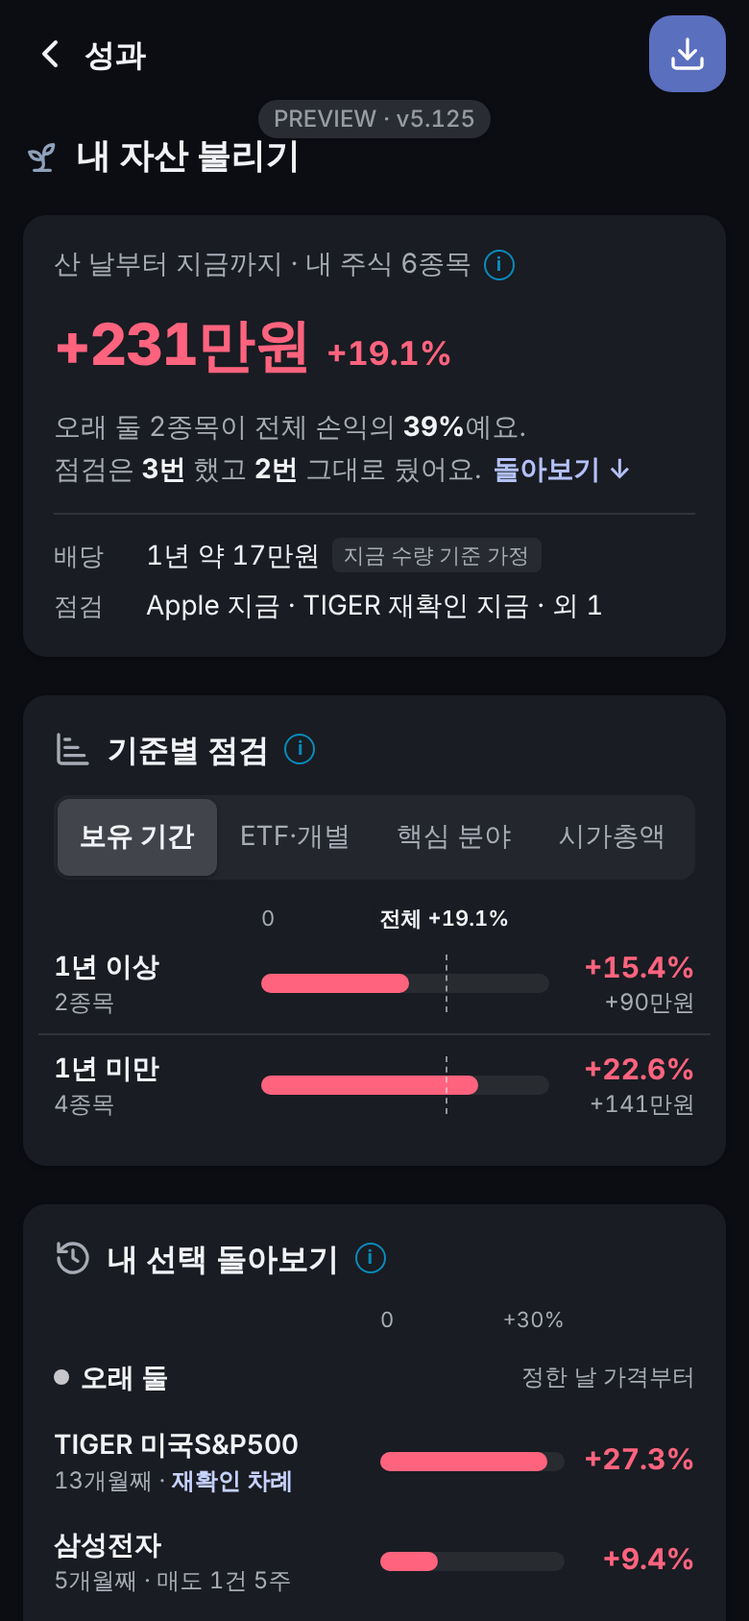
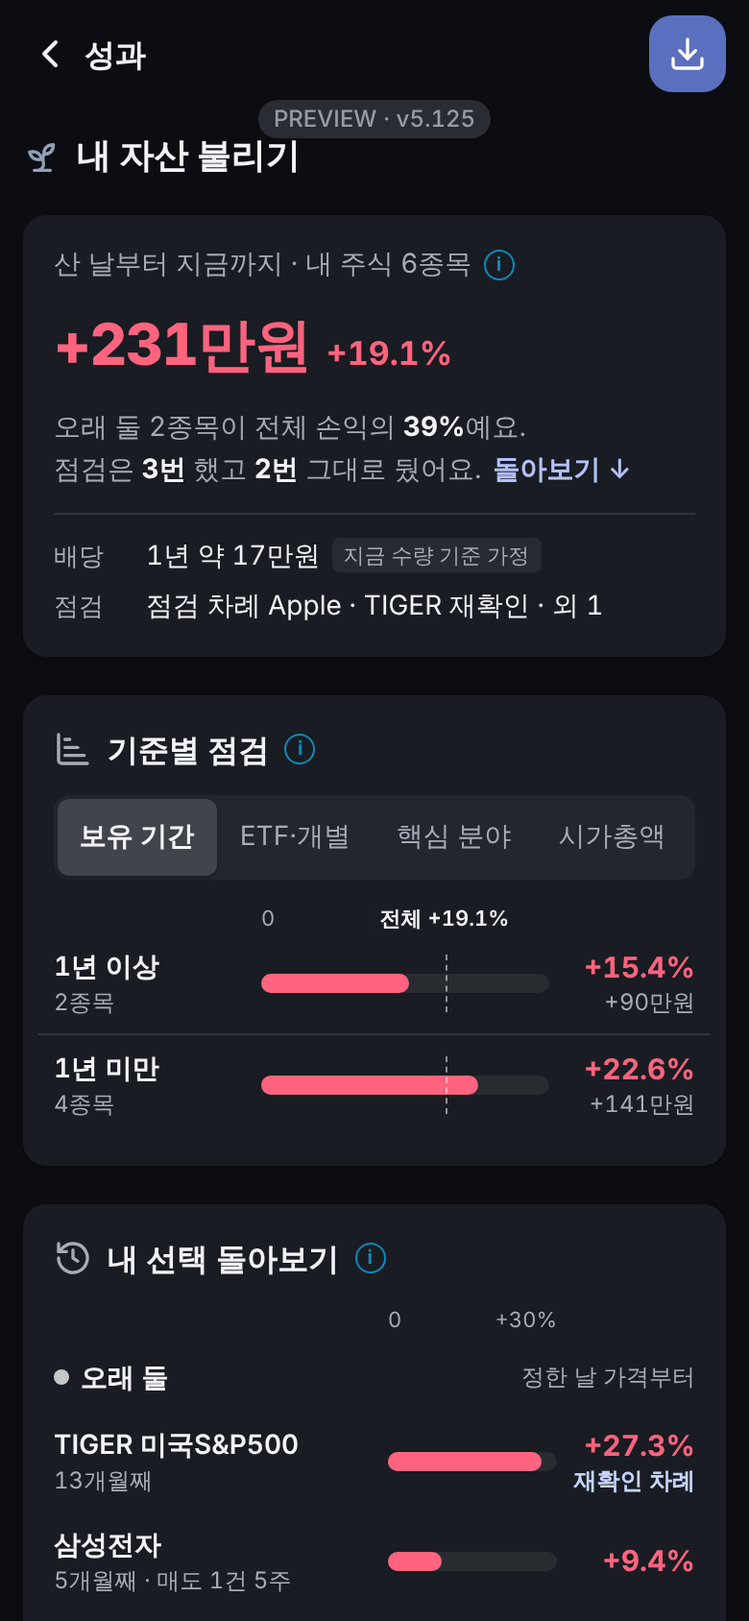
memory: #239 4차 tech-review·정정 수용

diff --git a/issues/5.125-239-grow-my-assets/tools/mock-redesign4.html b/issues/5.125-239-grow-my-assets/tools/mock-redesign4.html
@@ -121,12 +121,15 @@
 .mk-rv-head b { font-size: 14px; font-weight: 700; display: inline-flex; align-items: center; gap: 6px; }
 .mk-rv-head b i { width: 8px; height: 8px; border-radius: 999px; display: inline-block; }
 .mk-rv-head span { font-size: 12px; color: var(--muted-foreground); white-space: nowrap; }
-.mk-rv-row { all: unset; display: grid; grid-template-columns: minmax(0, 1fr) 96px 60px; column-gap: 8px; align-items: center; min-height: 52px; margin: 0 -8px; padding: 0 8px; border-radius: 8px; cursor: pointer; }
+.mk-rv-row { all: unset; display: grid; grid-template-columns: minmax(0, 1fr) 88px 64px; column-gap: 8px; align-items: center; min-height: 52px; margin: 0 -8px; padding: 0 8px; border-radius: 8px; cursor: pointer; }
 .mk-rv-row:hover { background: color-mix(in oklab, var(--foreground) 5%, transparent); }
 .mk-rv-name { display: block; font-size: 14px; font-weight: 600; line-height: 20px; word-break: keep-all; }
 .mk-sub { display: block; font-size: 12px; line-height: 16px; color: var(--muted-foreground); white-space: nowrap; }
-.mk-rv-pct { text-align: right; font-size: 15px; font-weight: 700; }
-.mk-rv-scale { display: grid; grid-template-columns: minmax(0, 1fr) 96px 60px; column-gap: 8px; font-size: 11px; line-height: 16px; height: 16px; }
+.mk-rv-pct { text-align: right; display: flex; flex-direction: column; align-items: flex-end; }
+.mk-rv-pct b { font-size: 15px; line-height: 20px; font-weight: 700; }
+.mk-rv-pct .mk-due { font-size: 12px; line-height: 16px; white-space: nowrap; color: oklch(0.87 0.065 274); font-weight: 600; }
+.mk-due-dot { width: 6px; height: 6px; border-radius: 999px; background: color-mix(in oklab, var(--brand) 90%, white 10%); margin-right: 2px; }
+.mk-rv-scale { display: grid; grid-template-columns: minmax(0, 1fr) 88px 64px; column-gap: 8px; font-size: 11px; line-height: 16px; height: 16px; }
 .mk-rv-scale > div { position: relative; }
 /* 점검 한 장 */
 .mk-card1 { grid-column: 1 / -1; margin: 4px 0 12px; padding: 12px; border-radius: 10px; background: color-mix(in oklab, var(--foreground) 5%, transparent); display: flex; flex-direction: column; gap: 12px; }
@@ -162,6 +165,10 @@ function renderMock(root, opts = {}) {
     { name: "Apple", hold: "6개월", score: "5점", pl: 816300, cost: 2963700, label: "check", due: true },
     { name: "NVIDIA", hold: "5개월", score: "측정 중", pl: 276800, cost: 1179200, label: null },
   ];
+  if (opts.loss) { // 값 주입: 합계·오래 둘 둘 다 손실 + 바꾼 선택에 전량 매도 종목(cto 4차 판정 ②③)
+    const L = { "TIGER 미국S&P500": -310000, "삼성전자": -250000, "KODEX 200": -90000, "SK하이닉스": 60000, "Apple": -180000, "NVIDIA": -100000 };
+    S.forEach((s) => { s.pl = L[s.name]; });
+  }
   const sum = (a, k) => a.reduce((x, s) => x + s[k], 0); const pct = (p, c) => (p / c) * 100;
   const fp = (v) => `${v > 0 ? "+" : v < 0 ? "−" : ""}${Math.abs(v).toFixed(1)}%`; const man = (w) => `${w > 0 ? "+" : w < 0 ? "−" : ""}${Math.trunc(Math.abs(w) / 10000).toLocaleString("ko-KR")}만원`;
   const tone = (v) => (v > 0 ? "mk-up" : v < 0 ? "mk-down" : "mk-muted");
@@ -178,10 +185,10 @@ function renderMock(root, opts = {}) {
       { name: "Apple", sub: "점검 2번 · 그대로 2번", st: "점검 차례", p: 9.8 },
       { name: "SK하이닉스", sub: "아직 점검 전 · 정한 날부터", p: 8.6 } ] },
     { k: "바꾼 선택", base: "바꾼 날 가격부터", dot: "transparent; box-shadow: inset 0 0 0 1.5px color-mix(in oklab, var(--foreground) 45%, transparent)", rows: [
-      { name: "NVIDIA", sub: "9월 19일 정하지 않음으로", p: 8.3 } ] },
+      { name: "NVIDIA", sub: "9월 19일 정하지 않음으로", p: 8.3 }, ...(opts.loss ? [{ name: "카카오", sub: "10월 2일 정하지 않음으로", p: null }] : []) ] },
   ];
   const ICON = { trend: '<svg viewBox="0 0 24 24" fill="none" stroke="currentColor" stroke-width="2" stroke-linecap="round" stroke-linejoin="round"><path d="M3 3v16a2 2 0 0 0 2 2h16"/><path d="M7 11h8"/><path d="M7 16h12"/><path d="M7 6h3"/></svg>', list: '<svg viewBox="0 0 24 24" fill="none" stroke="currentColor" stroke-width="2" stroke-linecap="round"><path d="M8 6h13M8 12h13M8 18h13M3 6h.01M3 12h.01M3 18h.01"/></svg>', back: '<svg viewBox="0 0 24 24" fill="none" stroke="currentColor" stroke-width="2" stroke-linecap="round" stroke-linejoin="round"><path d="M3 12a9 9 0 1 0 3-6.7L3 8"/><path d="M3 3v5h5"/><path d="M12 7v5l3 2"/></svg>', down: '<svg viewBox="0 0 24 24" fill="none" stroke="currentColor" stroke-width="2.5" stroke-linecap="round" stroke-linejoin="round"><path d="m6 9 6 6 6-6"/></svg>', chev: '<svg viewBox="0 0 24 24" width="16" height="16" fill="none" stroke="currentColor" stroke-width="2" stroke-linecap="round" stroke-linejoin="round"><path d="m9 18 6-6-6-6"/></svg>' };
-  const chip = (s) => { const ring = s.due || s.re ? " due" : ""; const t = s.label === "keep" ? "오래 둘" : s.label === "check" ? "점검할" : "이름표"; return `<span class="mk-chip${s.label ? "" : " none"}${ring}">${t}${ICON.down}</span>`; };
+  const chip = (s) => { const ring = s.due || s.re ? " due" : ""; const t = s.label === "keep" ? "오래 둘" : s.label === "check" ? "점검할" : "이름표"; return `<span class="mk-chip${s.label ? "" : " none"}${ring}" ${ring ? `aria-label="${t}, ${s.re ? "재확인" : "점검"} 차례"` : ""}>${ring ? '<i class="mk-due-dot"></i>' : ""}${t}${ICON.down}</span>`; };
   const open = opts.open ?? null;
   const rows = S.slice(0, 5);
   root.innerHTML = `<div class="mk" data-mock="redesign4">
@@ -190,12 +197,12 @@ function renderMock(root, opts = {}) {
     <div class="mk-hero-label mk-muted">산 날부터 지금까지 · 내 주식 ${S.length}종목 <span class="mk-i">i</span></div>
     <div class="mk-hero-num ${tone(tPl)}"><b>${man(tPl)}</b><span>${fp(tPct)}</span></div>
     <div class="mk-comment" data-mk="comment">
-      <span class="mk-muted">오래 둘 ${keep.length}종목이 전체 손익의 <b>${keepShare}%</b>예요.</span>
+      <span class="mk-muted">오래 둘 ${keep.length}종목이 전체 ${tPl < 0 ? "손실" : "손익"}의 <b>${keepShare}%</b>예요.</span>
       <span class="mk-muted">점검은 <b>3번</b> 했고 <b>2번</b> 그대로 뒀어요.<span class="mk-jump">돌아보기 ↓</span></span>
     </div>
     <dl class="mk-next" style="margin:0">
       <dt>배당</dt><dd>1년 약 17만원<span class="mk-tag">지금 수량 기준 가정</span></dd>
-      <dt>점검</dt><dd>Apple 지금 · TIGER 재확인 지금 · 외 1</dd>
+      <dt>점검</dt><dd>점검 차례 Apple · TIGER 재확인 · 외 1</dd>
     </dl>
   </section>
   <section class="mk-sec" data-mk="axes">
@@ -211,7 +218,7 @@ function renderMock(root, opts = {}) {
     <div class="mk-rv-scale mk-muted" aria-hidden="true"><div></div><div><span style="position:absolute;left:0">0</span><span style="position:absolute;right:0">+${hi}%</span></div><div></div></div>
     ${RV.map((g) => `<div class="mk-rv-group" data-mk="rv-group">
       <div class="mk-rv-head"><b><i style="background:${g.dot}"></i>${g.k}</b><span>${g.base}</span></div>
-      ${g.rows.map((r) => `<button class="mk-rv-row" data-mk="rv-row"><span><span class="mk-rv-name">${r.name}</span><span class="mk-sub">${r.sub}${r.st ? ` · <span class="mk-due">${r.st}</span>` : ""}</span></span><span class="mk-track"><span class="mk-fill" style="${bar(r.p)}"></span></span><span class="mk-rv-pct ${tone(r.p)}">${fp(r.p)}</span></button>`).join("")}
+      ${g.rows.map((r) => `<button class="mk-rv-row" data-mk="rv-row"><span><span class="mk-rv-name">${r.name}</span><span class="mk-sub">${r.sub}</span></span>${r.p === null ? `<span class="mk-sub" style="text-align:right;grid-column:2 / 4">지금 보유 없음</span>` : `<span class="mk-track"><span class="mk-fill" style="${bar(r.p)}"></span></span><span class="mk-rv-pct"><b class="${tone(r.p)}">${fp(r.p)}</b>${r.st ? `<span class="mk-due">${r.st}</span>` : ""}</span>`}</button>`).join("")}
     </div>`).join("")}
   </section>
   </div>
@@ -220,8 +227,8 @@ function renderMock(root, opts = {}) {
     <div class="mk-table" role="table">
       <div class="mk-th">종목<span class="mk-hold" style="font-size:12px"> · 기간 · 점수</span> <span class="mk-i" style="width:14px;height:14px;font-size:9px">i</span></div><div class="mk-th r c-hold">보유 기간 · 점수</div><div class="mk-th r">수익률</div><div class="mk-th r pl-col">손익</div><div class="mk-th r">이름표</div>
       ${rows.map((s) => { const p = pct(s.pl, s.cost); const st = s.re ? "재확인 차례" : s.due ? "점검 차례" : ""; return `<div class="mk-row" role="row" data-mk="row">
-        <div class="mk-c"><span class="mk-name">${s.name}</span><span class="mk-hold">${s.hold} · ${s.score}${st ? ` · <span class="mk-due">${st}</span>` : ""}</span></div>
-        <div class="mk-c r mk-hold-col" style="justify-content:center">${s.hold}<span class="mk-sub" style="text-align:right">${s.score}${st ? ` · <span class="mk-due">${st}</span>` : ""}</span></div>
+        <div class="mk-c"><span class="mk-name">${s.name}</span><span class="mk-hold">${s.hold} · ${s.score}</span></div>
+        <div class="mk-c r mk-hold-col" style="justify-content:center">${s.hold}<span class="mk-sub" style="text-align:right">${s.score}</span></div>
         <div class="mk-c r mk-rate"><b class="${tone(p)}">${fp(p)}</b><span class="mk-mini"><i style="${bar(p)}"></i></span><span class="mk-rate-pl">${man(s.pl)}</span></div>
         <div class="mk-c r pl-col"><span class="mk-pl">${man(s.pl)}</span></div>
         <div class="mk-c r">${chip(s)}</div>

diff --git a/issues/5.125-239-grow-my-assets/5.125-tech-review.md b/issues/5.125-239-grow-my-assets/5.125-tech-review.md
@@ -214,3 +214,138 @@
 5. **체험은 '과거 시세를 받지 않는 환경'이 아니다.** 상태표 체험 행은 일반 행과 같다.
 6. **AC-45 데모의 결산 문장은 첫 형식으로 고정할 수 없다.** 데모는 실제 시세라 그날 시장에 따라 세 갈래 중 하나가 나오거나, 시세 서버가 막히면 줄이 없다. '세 갈래 중 하나가 보인다'로 바꾸고 세 형식 캡처는 값 주입으로 본다. 정한 날 가격 %도 같은 이유로 값이 날마다 다르다.
 7. **알려진 한계로 적을 것**: 일본 주식처럼 기준가가 오지 않는 종목을 '연초 전 보유'로 가진 기기는 결산 문장이 나오지 않는다(`price-history`를 써도 같다). 문장을 살리려면 그 종목을 분모·분자에서 빼야 하는데, 그러면 `내 주식에서`와 어긋나므로 cto 판정이 필요하다.
+
+## 4차 — 선택 기록(reviews)·재확인 (developer, 2026-11-18)
+
+기준: worktree `vf-5125` @cb36907(읽기만, 구현 0 — C135 목업 확인 뒤 착수), `5.125-redesign.md` 4-1~4-10, `5.125-challenge.md` '11/18 4차' 조건 6건. **판정: 구현 가능, risk:high 유지(저장 필드 추가). 동기화 한도 대비 여유가 크다(아래 1-④).**
+
+### 1. 저장 — `secretasset.stock_labels` 최상위 `reviews`
+- **① 형태**(cto 조건 4-① 반영. 화면에 쓰지 않는 pnl·qty·score는 넣지 않는다)
+  ```
+  reviews: [{ t:"AAPL", at:"2026-07-16T03:00:00.000Z", from:"keep"|"check", choice:"same"|"keep"|"check"|"none", price:205, rate:10.8 }]
+  ```
+  - `t` = 이름표 키(`normalizeTicker`, `TICKER_KEY` 검사 `stock-labels.ts:62`).
+  - `price` = 그때 주당 시세(종목 통화, 양수). `rate` = 그때 산 날부터 %(소수 1자리, 유한수).
+  - `from`·`choice`는 열거값이다. 첫 결정(이름표 없음 → 오래 둘·점검할)은 기록하지 않는다(4-4).
+- **② id는 저장하지 않고 `t@at`으로 만든다 — spec 정정 제안 1.**
+  - redesign 4-5의 `id:"AAPL@2026-07-16T…"`는 t·at을 그대로 이어 붙인 값이라 정보가 겹친다. 항목 하나가 38~57B 커진다(아래 ④).
+  - 병합 키·정렬 동률 키는 계산한 `t@at`로 같게 쓴다. 같은 t·at(같은 ms)에 내용이 다른 두 기록은 기존 `heavier`(`stock-labels.ts:204`)로 결정적으로 정한다.
+- **③ 파싱·정규화** — `parseStockLabels`(`:113-147`)에 아는 필드로 추가한다.
+  - `topExtras` 목록(`:219`)·`extrasOf(raw, ["v","cycle","items"])`(`:146`)에 `"reviews"`를 넣는다.
+  - 배열이 아니면 `[]`. 틀린 항목만 뺀다. 미래 필드는 항목당 256B 상한 안에서 보존한다(기존 보존 계약과 같은 꼴).
+  - **읽을 때 정렬·상한까지 적용한다**: 정렬은 t 오름차순 → at 내림차순 → 동률은 `t@at` 문자열, 상한은 티커당 12건. `sameStockLabels`의 `canon`(`:194`)은 배열 순서를 비교하므로, 정규화하지 않으면 같은 값이 '다르다'로 판정돼 pull마다 재-push가 반복된다.
+- **④ 최악 크기**(실측: `JSON.stringify` 길이 + 구분자)
+  | 항목 | 바이트 |
+  |---|---|
+  | 보통(`AAPL`, 6자리 가격) | 105 |
+  | 최장(티커 24자, 가격 소수 4자리, rate `-123.4`) | 131 |
+  | 같은 최장 + 저장 id(redesign 원안) | 188 |
+  - 티커당 12건 × 131B = 1.6KB.
+    - **티커 100개: 157KB**(원안 226KB). 500개: 786KB.
+    - 암호화 후 base64 ≈ ×1.34 → 100개 211KB, 500개 1.05MB.
+  - 한도
+    - 서버 `MAX_CIPHERTEXT = 4MB`(`src/app/api/sync/route.ts:52`, 초과 413 `:93-94`). Vercel 함수 요청 본문 4.5MB.
+    - 기기 localStorage는 출처당 약 5MB를 모든 키가 함께 쓴다(스냅샷이 가장 큼).
+  - 판정: 티커 100개 최악이 서버 한도의 5%다. 전체 상한은 두지 않는다(cto 4 — 결합법칙). 이력은 보유하지 않게 된 티커에도 남지만, 티커당 12건이라 선형으로만 는다.
+- **⑤ 경로(파일:행)**
+  - 내보내기: `asset-storage.ts:214-215` `readStockLabelsForExport()` → payload 최상위 `stockLabels`. reviews는 그 안에 들어 따로 고칠 곳이 없다.
+  - 가져오기·pull: `asset-storage.ts:456-460` `applyIncomingStockLabels(p.stockLabels, { merge })`.
+  - 동기화 pull: `sync-client.ts:109` `applyImportedPayload(…, { mergeStockLabels: true })` → `stockLabelsRepush`를 `mergedAdditions`에 OR(`:114`) → `cloud-sync-provider.tsx:308` `if (r.mergedAdditions) runPushRef.current(true)`로 재-push.
+  - 자동 push 트리거: `cloud-sync-provider.tsx:131-133`가 `ASSET_USER_EDIT_EVENT`를 듣는다. `recordReview` 저장 직후 `notifyAssetUserEdit()`(아래 3절)가 이 신호다.
+  - push 본문: `sync-client.ts:51` `encryptPayload(buildExportPayload(), …)` — 같은 payload라 따로 고칠 곳이 없다.
+
+### 2. 병합·가져오기·데모·pull 규칙 (기존 stockLabels 규칙을 그대로 따른다)
+- **병합** `mergeStockLabels`(`:226-242`): reviews = (a ∪ b)를 `t@at` 키로 합친다. 같은 키에 내용이 다르면 `heavier`로 정하고, 정렬 뒤 티커당 최신 12건만 남긴다.
+  - 정렬이 전순서라서 top12(top12(A) ∪ top12(B)) = top12(A ∪ B)다. 교환·결합·멱등이 성립한다.
+  - items·cycle 규칙은 그대로다. reviews는 items의 승패와 무관하게 합쳐진다. 이름표가 지거나 바뀌어도 이력은 남는다(4-5 계약).
+- **수신** `applyIncomingStockLabels`(`:315-330`)
+  | 경로 | 수신 `stockLabels` 없음 | 있음, `reviews` 없음 | 있음, `reviews` 있음 |
+  |---|---|---|---|
+  | 파일 가져오기·데모·체험(merge=false) | 로컬 그대로(현행 `:317-319`) | **items·cycle은 교체, 로컬 reviews는 유지**(cto 조건 4-② — 바꿀 곳: 교체 전에 원문에 `reviews` 키가 없으면 로컬 reviews를 붙인다) | 교체(데모 시드가 이력을 쓴다) |
+  | 동기화 pull(merge=true) | 로컬 그대로, 로컬에 기록이 있으면 재-push(`hasStockLabelRecords`(`:249`)에 `reviews.length > 0` 추가) | 합집합 = 로컬 그대로, 수신과 다르면 재-push | 합집합 |
+  - 손상 원문(`state:"corrupt"`)은 지금처럼 자동 경로가 덮지 않는다(`:323`).
+- **전체 삭제 뒤 다른 기기 pull**
+  - `settings-page.tsx:136-146` 전체 삭제는 먼저 `cs.forget()`로 동기화를 끊는다(빈 값 push 차단, 클라우드 금고 보존). 그다음 `clearStockLabels()`로 키를 지운다.
+  - 삭제는 그 기기에만 일어나고, 다른 기기로 퍼지지 않는다. 다른 기기는 자기 items·reviews를 그대로 갖고 push를 계속한다.
+  - 이 기기를 같은 금고에 다시 연결해 pull하면, 로컬이 `none`이라 수신 값이 그대로 쓰인다(`:326`). items·cycle·reviews가 **같이** 돌아온다.
+  - 따라서 reviews는 items와 같은 규칙으로 돌아온다(cto 조건 4-② 두 번째). 되살아남을 막는 삭제 표식이 필요 없다(개별 삭제 없음, 4-5).
+  - 체험·`?demo=empty`(`preview-gate.tsx:92`)는 동기화가 꺼져 있어 해당 없다.
+- **구버전 혼재**
+  - 운영 main에는 이 키가 없다. main 기기는 payload에 `stockLabels`를 싣지 않으므로 '필드 없음 → 로컬 유지·재-push' 경로를 탄다.
+  - 내부 빌드 cb36907은 `reviews`를 최상위 모르는 필드로 보존한다(8KB 상한 `:73`). 그보다 크면 그 기기에서만 버리고, 다음 pull에서 합집합으로 돌아온다. 데이터 손실은 없다.
+
+### 3. `recordReview` — 한 번의 쓰기
+- 순수 함수(`stock-labels.ts`): `recordReview(state, ticker, choice, nowIso, snap: { price, rate }, base?)`
+  - `choice === "same"`: `label`이 keep·check일 때만 동작한다. `checkedAt = at = now`, 기록 `{from: label, choice: "same"}`를 더한다. base는 그대로 둔다.
+  - `choice ∈ keep|check|none`이고 지금 이름표와 다를 때: `setStockLabel`(`:266`)과 같은 항목 교체(새 labeledAt·base, checkedAt 유지)에 기록 `{from: 이전 label, choice}`를 더한다.
+  - 이름표가 없거나 `label:null`에서 처음 정할 때: `setStockLabel`만 쓰고 기록은 없다(4-4 '첫 결정').
+  - 반환은 새 상태 1개다. 기록 추가 직후 그 티커만 다시 12건으로 자른다.
+- `markStockChecked`(`:280-284`)의 `label !== "check"` 조건을 풀어 keep도 허용한다. 화면 경로는 `recordReview(same)` 하나로 모으고, markStockChecked는 recordReview 안에서만 쓴다.
+  - cto 조건 6-①: 오래 둘의 checkedAt은 **12개월 재확인 기준일로만** 쓴다. `grow-board.ts`의 `due`(사용자 주기)·'점검 차례'·`nextChecks`는 지금처럼 `label === "check"`일 때만 사용자 주기를 쓴다. 오래 둘은 별도 상태 `recheck` = `cycleBaseOf` + 12개월이다.
+  - 조건 6-②: 이름표를 바꾸면 기존 `setStockLabel`이 checkedAt을 유지한다(`:273`). 4차는 '이름표를 바꾸면 새로 시작'이라 **recordReview의 이름표 변경 경로에서만 checkedAt을 버린다** — spec 정정 제안 2(redesign 4-4 문구와 cto 6-②를 맞춤). setStockLabel 단독 동작은 바꾸지 않는다(기존 테스트 보존).
+- 훅(`use-stock-labels.ts:31-61`): `commit` 1회(`writeStockLabels` 1회 → `notify()` 1회)에 `record(ticker, choice, snap, base?)` 동작을 더한다.
+  - GA: `choice === "same"`이면 `grow_check`(뜻 갱신은 cto 6-③, business.md). 유효 이름표가 0에서 1이 되면 `grow_label`. 새 GA title·category는 0이다.
+  - 기존 `markChecked`·`setLabel`은 남긴다(표 칩의 '첫 결정'이 setLabel을 쓴다).
+
+### 4. 복원 테스트 추가안 (기획 10 + cto 2 → `src/lib/__tests__/stock-labels-reviews.test.ts` 신규, 저장소 경로는 기존 파일에)
+| # | 내용 | 파일 | 방법 |
+|---|---|---|---|
+| R1 | cb36907 형태(reviews 없음) 읽기 → `reviews: []`, items·cycle·base·모르는 필드 원문 그대로 | reviews(순수) | 기존 픽스처 2벌(`stock-labels-storage` '기존 형태'·'base + 미래 필드') 재사용 |
+| R2 | 저장 → 읽기 왕복 깊은 비교, 정렬·상한 정규화 뒤 다시 읽어도 같음(멱등) | storage | `writeStockLabels` → `readStockLabelsState` |
+| R3 | 두 기기 이력 합집합 + 교환(merge(a,b) ≡ merge(b,a)) | reviews | `sameStockLabels` |
+| R4 | 세 기기 결합(merge(merge(a,b),c) ≡ merge(a,merge(b,c))) | reviews | 무작위 생성 50회(시드 고정) |
+| R5 | 같은 `t@at`·다른 내용 → 어느 순서로 합쳐도 같은 승자 | reviews | heavier |
+| R6 | 13건째부터 가장 오래된 것이 빠지고, 두 기기에서 각자 자른 뒤 합쳐도 같은 12건 | reviews | top12 성질 |
+| R7 | 틀린 항목만 빠짐(티커 키·at·from·choice 열거·price≤0·rate NaN), 나머지 보존 | reviews | |
+| R8 | reviews가 배열이 아님 → 읽기는 [], 자동 경로(pull·내보내기)가 원문을 덮지 않음 | storage | 기존 손상 테스트 꼴 |
+| R9 | 이름표 변경·정하지 않음·다시 붙임 뒤에도 이력 유지(recordReview·setStockLabel 둘 다) | reviews | |
+| R10 | 내보내기 → 가져오기(merge=false) → pull(merge=true) 왕복 보존 | storage + sync | 기존 ③⑤ 꼴 |
+| C1 | payload에 `reviews` 없음(undefined): merge=false는 로컬 reviews 유지·items 교체, merge=true는 로컬 그대로 + 재-push 판정 | storage | cto 4-② |
+| C2 | 전체 삭제(`clearStockLabels`) 뒤 다른 기기 값 pull → items와 reviews가 같이 돌아오고, 삭제가 다른 기기로 퍼지지 않음 | sync | 두 기기 메모리 Storage(기존 `stock-labels-sync` 하네스) |
+- 더해 `recordReview` 단위 테스트를 둔다(same·변경·첫 결정·keep checkedAt·한 번의 쓰기·notify 1회). 위치는 `use-stock-labels.test.ts`다.
+- 기존 복원 테스트 ①~⑩은 손대지 않는다. 대상 픽스처에 reviews가 없을 때도 지금과 같이 통과해야 하고, 이것이 R1이다.
+
+### 5. 기존 테스트 영향 · 변경 파일 · 규모
+- **기존 테스트 영향**
+  - `stock-labels-merge`: `markStockChecked`가 check만 받는다는 단언(`'점검은 '점검할 자산'만'`)을 keep 허용으로 고친다. `parseStockLabels` 최상위 모르는 필드 테스트에서 `reviews`가 아는 필드가 된다.
+  - `stock-labels-storage`: '허용 필드 목록' 단언(`Object.keys(written)` = cycle·items·v)에 reviews 처리를 더한다(빈 배열은 쓰지 않을지 결정 — 제안: 빈 배열은 키를 생략해 cb36907 값과 바이트가 같게).
+  - `stock-label-block`: 칩 펼침 → 점검 한 장, 결론 카드 2문장, 돌아보기 영역으로 재작성한다.
+  - `asset-grade-copy`: 4-2 금지어와 cto 3-③ 금지어(`덕분`·`손해`·`놓친`·`아깝`·`나았` 등)를 추가한다.
+  - `demo-label-rebase`: reviews.price 배율과 % 범위.
+  - `grow-board`: 재확인·코멘트·돌아보기 값.
+- **변경 파일**(예상 증감)
+  - `stock-labels.ts` +130
+  - `use-stock-labels.ts` +25
+  - `grow-board.ts` +170(재확인·코멘트 2문장·돌아보기 묶음·이력 사실)
+  - `stock-label-block.tsx` +260(코멘트·돌아보기·점검 한 장)
+  - `performance-hub.tsx` +5(점검 차례 개수에 재확인 포함)
+  - `demo-data.json` +20, `demo-live-rebase.ts` +25, `demo-snapshot-rebase.tsx` +5
+  - KB
+  - 테스트 약 +650(신규 reviews 320, 기존 수정 330)
+  - **합계 약 1,300줄**(테스트 절반)
+  - diff 0: `asset-storage.ts`(stockLabels 필드 그대로)·`sync-client.ts`·`cloud-sync-provider.tsx`·`ga.ts`·API 라우트
+- **줄이는 방법 제안**(spec보다 커지는 부분)
+  1. id를 저장하지 않는다(정정 1). 크기 30% 감소.
+  2. '점검 한 장'은 표와 돌아보기에서 같은 컴포넌트 1개를 쓴다.
+  3. 돌아보기 '바꾼 선택'은 최근 3건 고정, 전체 보기 없이 둔다 — 4-3의 `전체 보기`를 빼면 접힘 상태·테스트가 줄어든다.
+
+### 6. 데모 시드와 rebase 연동
+- 시드 `reviews`는 날짜 토큰으로만 둔다(고정 날짜 금지). 정합표(C132)에 열을 더한다: reviews.at ≥ 매수일·정한 날, NVIDIA는 리뷰(@D-60) 앞의 점검할 기간(매수 `@M-5D18` 이후)을 적는다.
+- **가격 배율**
+  - `rebaseDemoLabelPrices`(`demo-live-rebase.ts:57`)를 넓힌다. 시드에 같은 `t@at`이 있는 reviews만 `price = 시드 price × 지금 시세 ÷ JSON 시세`로 옮긴다. base.price와 같은 배율이다.
+  - 사용자가 데모에서 새로 남긴 기록은 시드에 키가 없어 건드리지 않는다.
+  - `rate`(그때 산 날부터 %)는 평단 재기준(d72e5ec) 뒤의 데모 매입가 %와 같은 눈금이라 옮기지 않는다.
+  - `demo-label-rebase.test.ts`의 % 범위(−15~+30%)에 '그날 가격부터 %'(reviews·base)를 모두 넣는다. TIGER base 16,500은 상한 +30% 안이다(21,000 ÷ 16,500 = +27.3%).
+- **C134 대조 범위**(cto 5)
+  - stockLabels 소비처 grep 결과는 `asset-grade-copy` 고정 목록 12개 파일이다. 화면 소비는 성과 허브 셋째 카드·불리기 화면·설정(전체 삭제)·preview 게이트 4곳이다.
+  - 대조 대상(cb36907 배포와 같은 시각, 데모·체험 390)
+    - 허브 큰 값 `오래 둘 2 · 점검할 2`, 둘째 줄 합계, 점검 차례 개수
+    - 결론 카드 코멘트 2문장·점검 줄, 돌아보기, 표 칩
+    - NVIDIA `label:null` 항목이 이름표 개수(`countValidLabels`)·'이름표 붙이기'·`isStockLabelRevisit`에 들어가지 않는지(세 함수 모두 `label !== null` 필터 `stock-labels.ts:256-258·298-305`, `grow-rows` summarize)
+  - 홈·연·월·주식·배당은 stockLabels를 읽지 않으므로 cb36907과 원 단위로 같아야 한다. 보유·거래 시드는 diff 0으로 유지한다.
+
+### 정정 제안 (spec·redesign과 다른 점)
+1. **reviews에 id를 저장하지 않는다** — `t@at`로 만든다. 같은 정보이고 크기가 줄어든다(1-②).
+2. **이름표 변경 시 checkedAt**: redesign 4-4는 '기존 setStockLabel에 기록을 더한다'(= checkedAt 유지)이고, cto 6-②는 '새로 시작'이다. 4차 변경 경로(recordReview)에서는 cto대로 checkedAt을 지운다. 기존 setStockLabel은 유지한다.
+3. **빈 reviews는 저장하지 않는다**(키 생략). 이력이 없는 사용자의 값이 cb36907과 바이트가 같아, 구버전 혼재 비교가 단순해진다.
+4. **점검 기준 가격**: 점검할 '마지막 점검 가격부터'는 마지막 `same` 기록의 price를 쓴다. cb36907에서 기록 없이 남은 checkedAt만 있으면 가격이 없으므로, 그 행은 `정한 날 가격부터`(base.price)로 기준 글자를 바꿔 쓴다(데모 Apple은 @D-125 기록으로 맞춘다).

diff --git a/issues/5.125-239-grow-my-assets/5.125-spec.md b/issues/5.125-239-grow-my-assets/5.125-spec.md
@@ -323,3 +323,4 @@
 - (11/17 오케스트레이터) ui-review R2의 데모 '내 매입가 대비' 과대(+633% 등)는 v5.125 범위 밖으로 판정 — 기존 데모 전 화면(주식 탭 등)이 같은 값을 보여 온 기존 동작이고, 평단을 옮기면 데모 전 화면 숫자가 바뀌어 다른 판독 캡처와 어긋남. 후속 후보(데모 평단 실시세 재기준)로 STATE 후보 목록에 등록. 따라서 UI 승인 @eb7316a.
 - (11/17 오케스트레이터 재판정 — 위 줄 대체) 데모 평단 과대는 같은 행에서 '내 매입가 대비 +633%'와 '정한 날 가격 대비 +8.6%'가 나란히 보여 대표가 보는 데모에서 인사이트가 틀려 보인다 → v5.125에 포함. 데모·체험 전용 재기준(demo-live-rebase)에서 averagePrice도 같은 실시세 배율로 옮김. 데모 전 화면이 현실 범위로 바뀌는 것은 개선이며 GA 판독(page_title)과 무관.
 - (11/18 오케스트레이터) 데모 평단 재기준 후 자산 변화 3개월·올해 기간의 매수↔시세 항목 간 이동(합계 동일)은 데모 전용 알려진 한계로 수용 — 시작점이 원가 없는 예측 기록이라 옮길 원가가 없음. 데모 월 기록 시드에 원가를 채우는 추가 수정은 범위 확대·위험 대비 효과가 작아 하지 않음. 홈·1주·1개월·이번 달·연 결산 원인은 eb7316a와 원 단위 일치(a985322).
+- (11/18 오케스트레이터) 4차 tech-review 정정 제안 전부 수용: reviews id 미저장(t@at 키), checkedAt은 이름표 바꾸는 경로에서만 새로 시작, 빈 reviews 키 생략, 기록 없는 옛 checkedAt 행은 '정한 날 가격부터' 대체, '바꾼 선택' 최근 3건 고정.
